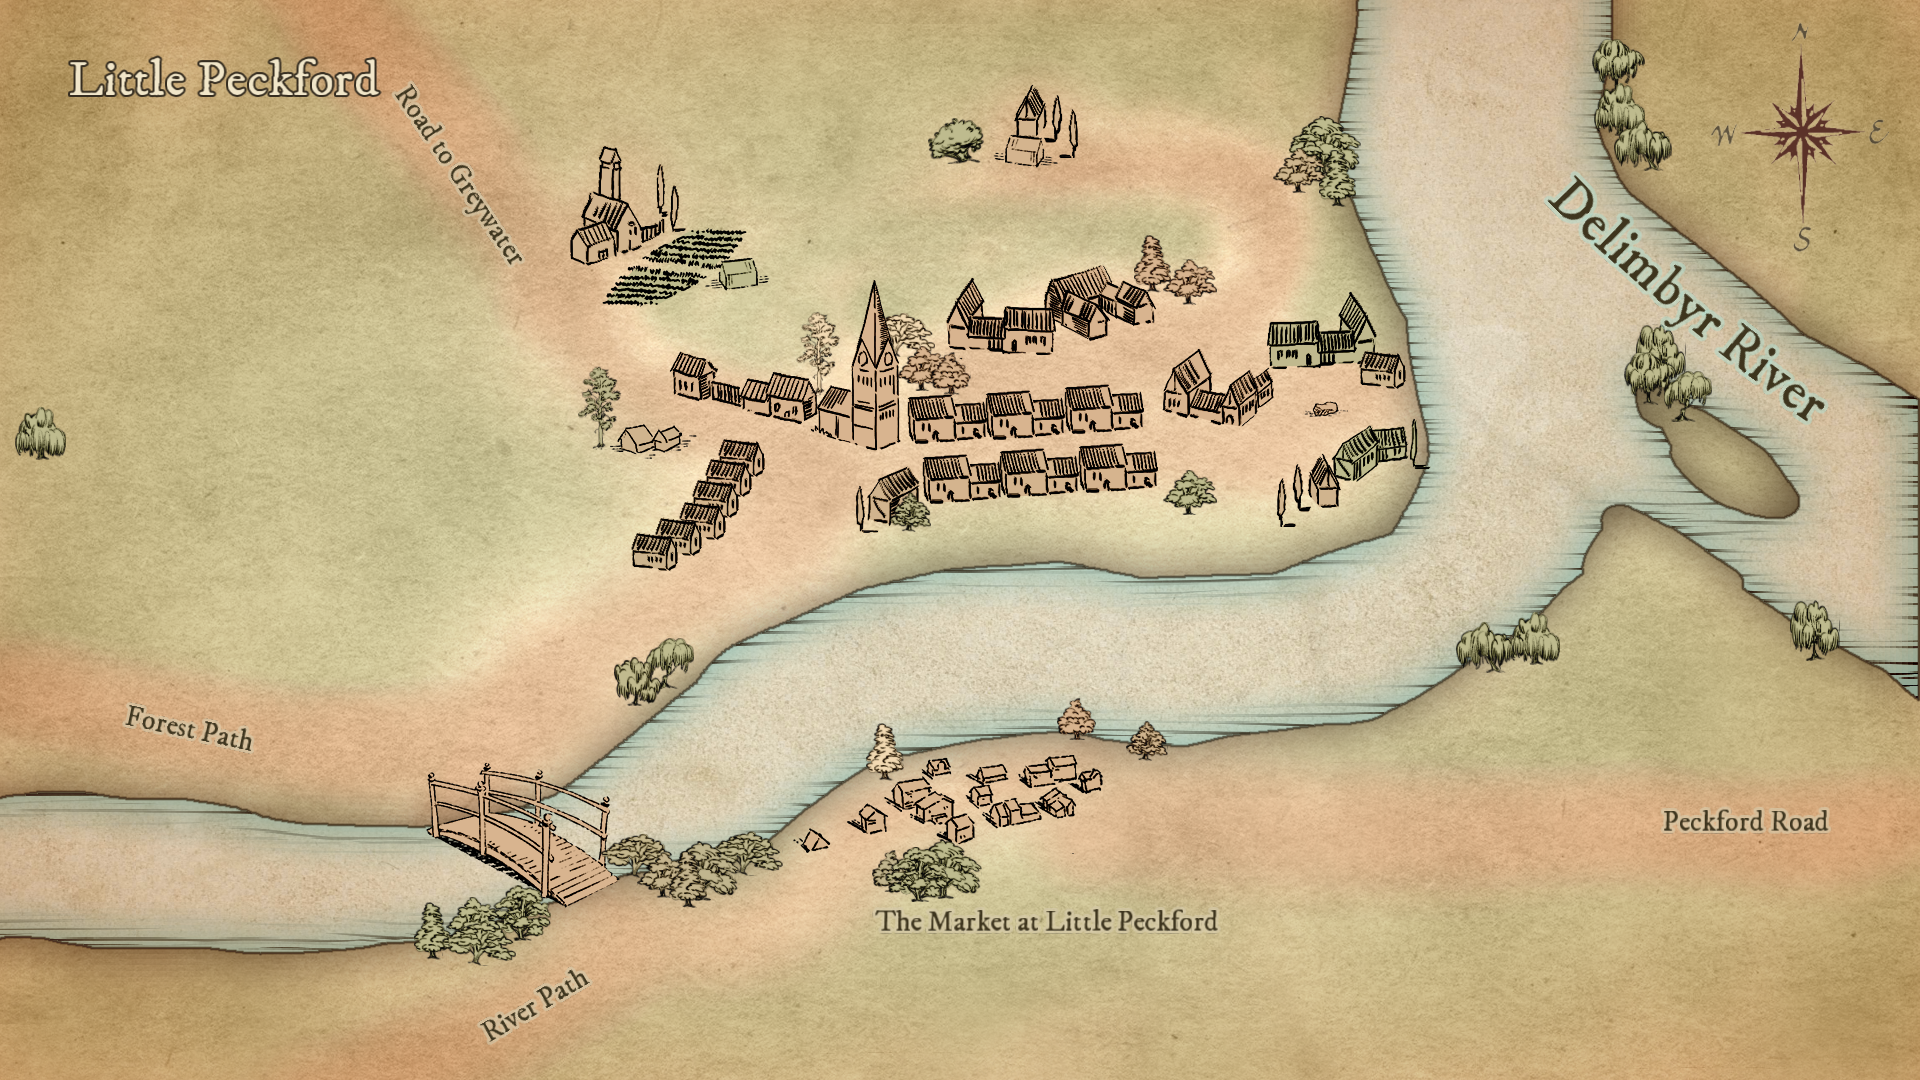
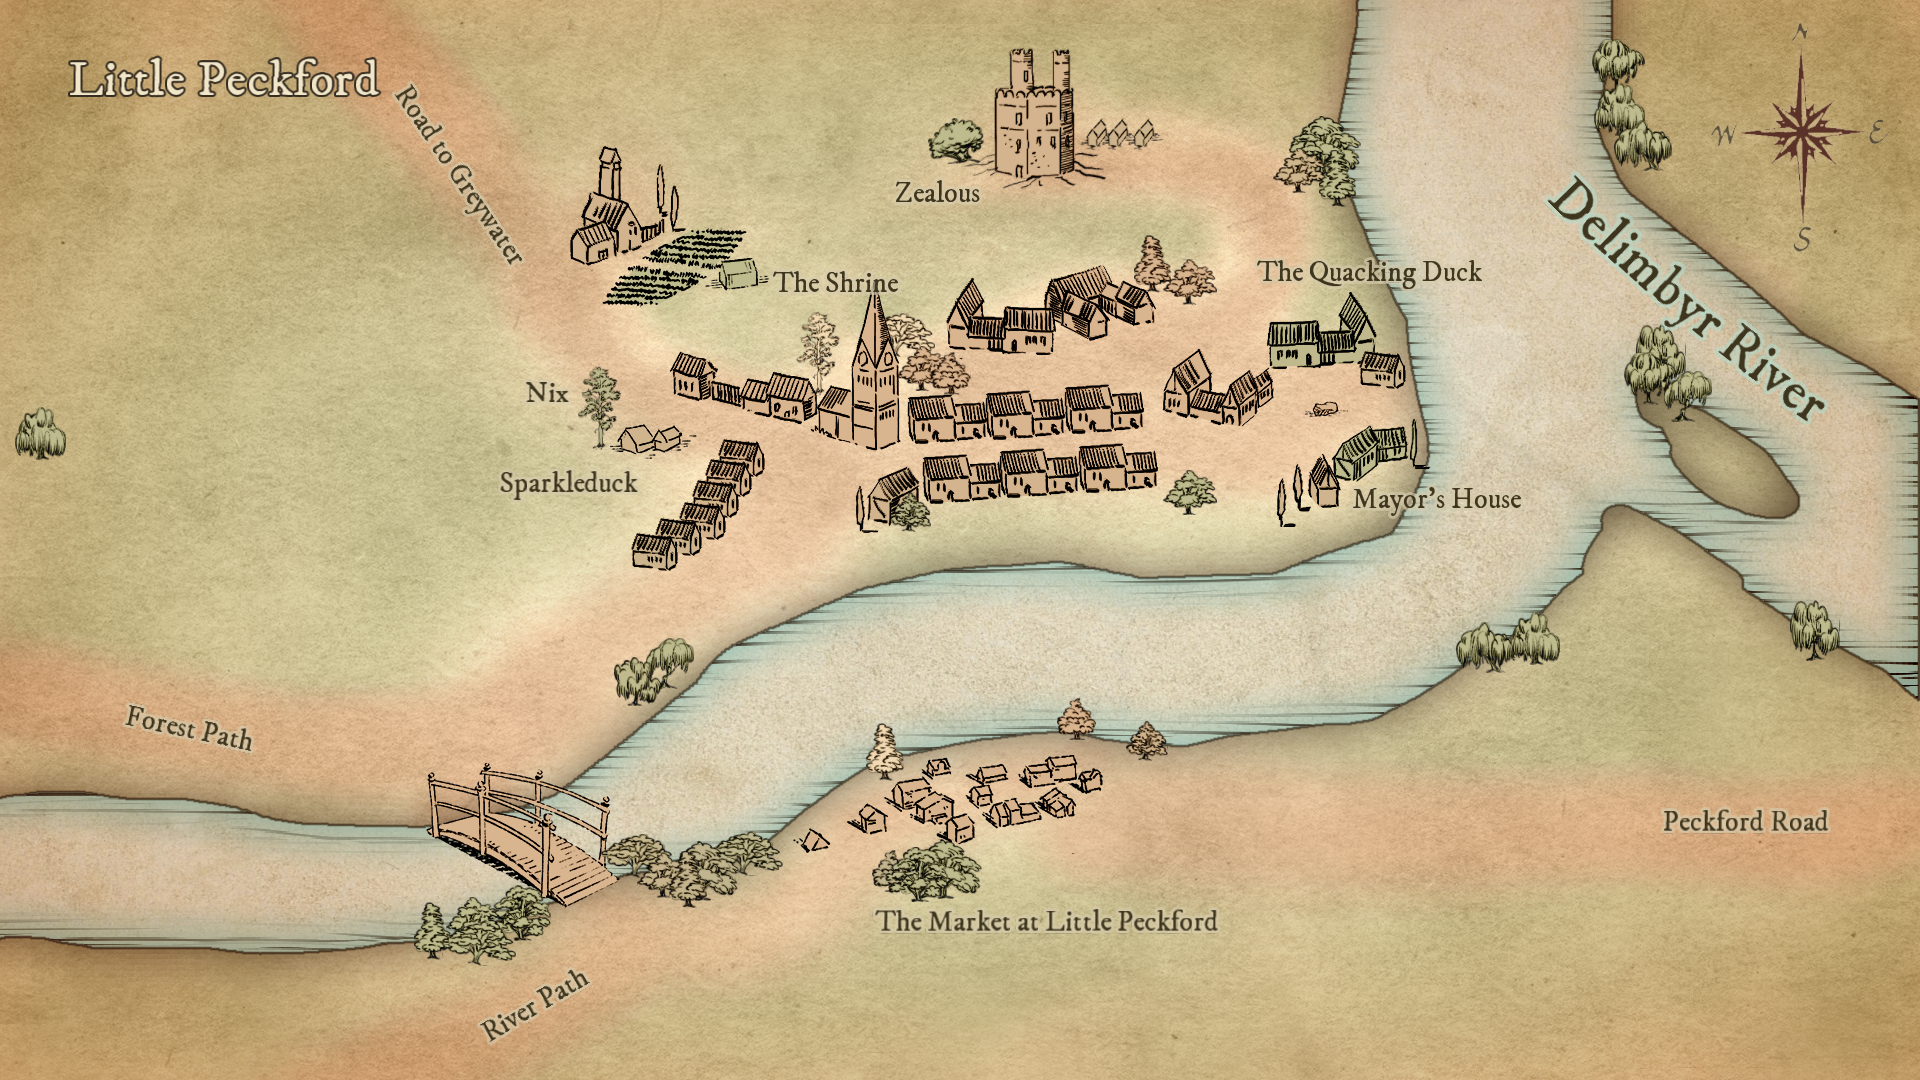
Updated map and campaign diary

diff --git a/DIARIES/campaign-diary.md b/DIARIES/campaign-diary.md
@@ -9,3 +9,19 @@
 *Little Peckford* 
 
 
+
+The last Everything Market of the month.
+
+Sparkleduck - heading to market to buy strings for basket
+Nix "the weaver" - heading to sell baskets at the market
+Zealous - going to buy vegetables to make soup
+
+Called on to help Lorilla (the Mayor) - her second cousin's daughter Feeb needs their help in Mossdeep. They agree to help. 
+
+They all decide to go to the market for provisions.
+
+Nix - steals herbs from the herb witch
+Zealous - buys vegetables from the market and helps pregnant friend (Mercy) sell chickens
+Sparkleduck - visits friend Jason to buy a book, cuts self and steals book about Goblins
+
+They have agreed to meet at the bridge at dawn. 
